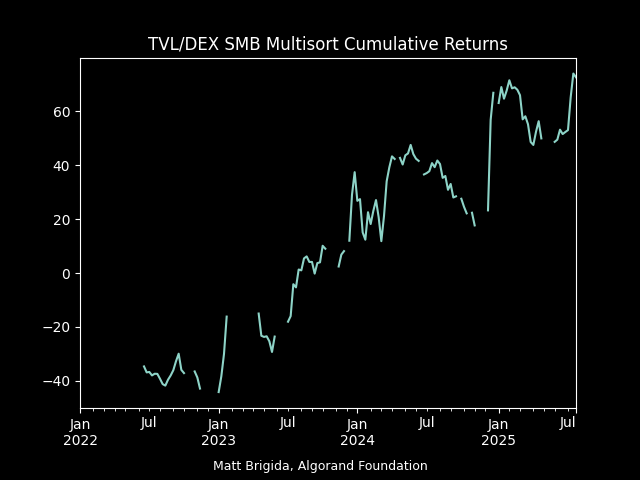
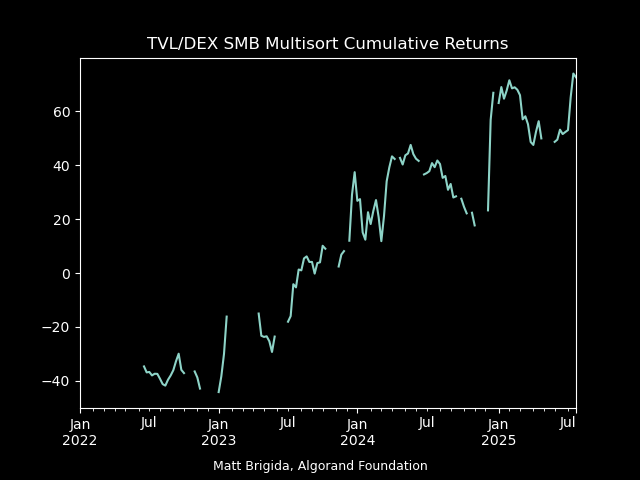
fixed narrative

diff --git a/index.html b/index.html
@@ -3,7 +3,7 @@
 "http://www.w3.org/TR/xhtml1/DTD/xhtml1-strict.dtd">
 <html xmlns="http://www.w3.org/1999/xhtml" lang="en" xml:lang="en">
 <head>
-<!-- 2026-01-19 Mon 17:48 -->
+<!-- 2026-01-19 Mon 18:13 -->
 <meta http-equiv="Content-Type" content="text/html;charset=utf-8" />
 <meta name="viewport" content="width=device-width, initial-scale=1" />
 <title>Alpha Found: DEX Sort Controlling for TVL</title>
@@ -251,8 +251,8 @@ $(function() {    $('.note').before("<p class='admonition-title note'>Note</p>")
 <h2>Table of Contents</h2>
 <div id="text-table-of-contents" role="doc-toc">
 <ul>
-<li><a href="#orgb747fc0">1. TVL and DEX Volume Multisort Portfolios</a></li>
-<li><a href="#org116f32b">2. Joint Tests for Significant Alpha</a></li>
+<li><a href="#org57caa54">1. TVL and DEX Volume Multisort Portfolios</a></li>
+<li><a href="#org6df96c3">2. Tests for Significant Alpha</a></li>
 </ul>
 </div>
 </div>
@@ -271,79 +271,117 @@ There are a number of reasons to think a cryptocurrency's TVL will affect its re
 <p>
 In addition, TVL may also affect prices through traditional investment in value channels. Fama and French (2015)<sup><a id="fnr.2" class="footref" href="#fn.2" role="doc-backlink">2</a></sup> found firms which invest more aggressively tend to earn lower returns.  Since TVL to market cap may be viewed as an investment intensity factor, there may be a similar effect in crypto.  TVL to market cap may also be a value measure which signals future growth.  Liu, Tsyvinski, and Wu (2022)<sup><a id="fnr.3" class="footref" href="#fn.3" role="doc-backlink">3</a></sup> found evidence of a value effect in crypto using a price to new address ratio.
 </p>
-<div id="outline-container-orgb747fc0" class="outline-2">
-<h2 id="orgb747fc0"><span class="section-number-2">1.</span> TVL and DEX Volume Multisort Portfolios</h2>
+<div id="outline-container-org57caa54" class="outline-2">
+<h2 id="org57caa54"><span class="section-number-2">1.</span> TVL and DEX Volume Multisort Portfolios</h2>
 <div class="outline-text-2" id="text-1">
 <p>
 In my tests I follow the standard Fama–French 2×3 portfolio construction, adapted to crypto. Each period I rank all eligible tokens on two characteristics measured in the prior period: total value locked (TVL) and DEX volume (scaled by market cap). First, I split tokens into Small TVL and Big TVL groups using the median TVL. Independently, I sort tokens into three DEX-activity groups — Low, Medium, and High devs — using the 30th and 70th percentiles of the DEX measure. Taking the intersection of these two independent sorts gives six portfolios: Small–Low (SL), Small–Medium (SM), Small–High (SH), Big–Low (BL), Big–Medium (BM), and Big–High (BH). I then track the value-weighted returns of these six portfolios over the next period. This 2×3 design lets me see how returns vary jointly with TVL and DEX activity, and then build long–short factors (e.g., high-minus-low DEX controlling for TVL) to test whether these characteristics earn a risk premium.
 </p>
 </div>
-<div id="outline-container-org7bf8236" class="outline-3">
-<h3 id="org7bf8236"><span class="section-number-3">1.1.</span> Data</h3>
+<div id="outline-container-org0fb90f2" class="outline-3">
+<h3 id="org0fb90f2"><span class="section-number-3">1.1.</span> Data</h3>
 <div class="outline-text-3" id="text-1-1">
 <p>
 Our data is sampled at the weekly frequency, and ranges from 1/3/2022 to 7/28/2025.  We include all coins that were in the top 100 over any part of the sample period, though we exclude Bitcoin and all stablecoins.  Returns are quoted in percentage points.
 </p>
 </div>
 </div>
-<div id="outline-container-org2ebfaf1" class="outline-3">
-<h3 id="org2ebfaf1"><span class="section-number-3">1.2.</span> TVL (size) factor: Small minus Big (SMB)</h3>
+<div id="outline-container-org945e6ee" class="outline-3">
+<h3 id="org945e6ee"><span class="section-number-3">1.2.</span> TVL (size) factor: Small minus Big TVL (\(SMB_{TVL}\))</h3>
 <div class="outline-text-3" id="text-1-2">
 <p>
-The long-short SMB portfolio measures whether TVL is a rewarded risk controlling for DEX volume to market cap.
+The long-short \(SMB_{TVL}\) portfolio measures whether TVL is a rewarded risk controlling for DEX volume to market cap.
 </p>
 
 <p>
-\[\text{SMB}_t = \frac{1}{3}\bigl(R_{SL,t} + R_{SM,t} + R_{SH,t}\bigr) - \frac{1}{3}\bigl(R_{BL,t} + R_{BM,t} + R_{BH,t}\bigr)\]
+\[\text{SMB}_{{TVL}_t} = \frac{1}{3}\bigl(R_{SL,t} + R_{SM,t} + R_{SH,t}\bigr) - \frac{1}{3}\bigl(R_{BL,t} + R_{BM,t} + R_{BH,t}\bigr)\]
 </p>
 
 <p>
 Descriptive statistics.  
 </p>
 
+<pre class="example">
+            0
+count  130.00
+mean     0.56
+std      6.33
+min    -21.84
+25%     -2.45
+50%      0.23
+75%      3.79
+max     33.61
+</pre>
+
+
 <p>
-The portfolio as a weekly mean return of == %, and given the T-test below, the mean return is not significantly different from 0.
+The portfolio as a weekly mean return of <code>0.56</code> %, and given the T-test below, the mean return is not significantly different from 0.
 </p>
 
+<pre class="example">
+TtestResult(statistic=array([1.00698739]), pvalue=array([0.31582595]), df=array([129]))
+</pre>
 
-<div id="org1fcb662" class="figure">
+
+
+
+
+<div id="org20457c4" class="figure">
 <p><img src="./multi_SMB.png" alt="multi_SMB.png" />
 </p>
 </div>
 </div>
 </div>
-<div id="outline-container-org19daf62" class="outline-3">
-<h3 id="org19daf62"><span class="section-number-3">1.3.</span> Devs factor: High devs minus Low devs (HML), neutral to TVL</h3>
+<div id="outline-container-org8629dfb" class="outline-3">
+<h3 id="org8629dfb"><span class="section-number-3">1.3.</span> DEX factor: High DEX Volume minus Low DEX Volume (\(HML_DEX\)), neutral to TVL</h3>
 <div class="outline-text-3" id="text-1-3">
 <p>
 This long-short portfolio is long tokens with more DEX volume (per market cap) and short tokens low DEX volume, while controlling for TVL.
 </p>
 
 <p>
-\[\text{DEX}_t = \frac{1}{2}\bigl(R_{SH,t} + R_{BH,t}\bigr) - \frac{1}{2}\bigl(R_{SL,t} + R_{BL,t}\bigr)\]
+\[\text{DEX}_{{DEX}_t} = \frac{1}{2}\bigl(R_{SH,t} + R_{BH,t}\bigr) - \frac{1}{2}\bigl(R_{SL,t} + R_{BL,t}\bigr)\]
 </p>
 
 <p>
 Descriptive statistics.  Data is weekly, and in percentage points.
 </p>
 
+<pre class="example">
+            0
+count  130.00
+mean     1.85
+std      9.67
+min    -31.74
+25%     -2.86
+50%      0.14
+75%      6.54
+max     53.01
+</pre>
+
+
 <p>
-The portfolio as a weekly mean return of == %, and given the T-test below, the mean return is significantly different from 0.
+The portfolio as a weekly mean return of <code>1.85</code> %, and given the T-test below, the mean return is significantly different from 0.
 </p>
 
+<pre class="example">
+TtestResult(statistic=array([2.17655566]), pvalue=array([0.03133462]), df=array([129]))
+</pre>
 
-<div id="org79aa09a" class="figure">
+
+
+<div id="org7929b9a" class="figure">
 <p><img src="./multi_HML.png" alt="multi_HML.png" />
 </p>
 </div>
 </div>
 </div>
 </div>
-<div id="outline-container-org116f32b" class="outline-2">
-<h2 id="org116f32b"><span class="section-number-2">2.</span> Joint Tests for Significant Alpha</h2>
+<div id="outline-container-org6df96c3" class="outline-2">
+<h2 id="org6df96c3"><span class="section-number-2">2.</span> Tests for Significant Alpha</h2>
 <div class="outline-text-2" id="text-2">
 <p>
-To test whether my TVL–DEX portfolios earn any abnormal returns (alpha), I use a standard linear factor model and Hansen’s J-statistic<sup><a id="fnr.4" class="footref" href="#fn.4" role="doc-backlink">4</a></sup> for a joint alpha test.
+To test whether my TVL–DEX portfolios earn any abnormal returns (alpha), I use a t-test on the intercept of a standard linear factor model and Hansen’s J-statistic<sup><a id="fnr.4" class="footref" href="#fn.4" role="doc-backlink">4</a></sup> for a joint alpha test.
 </p>
 
 <p>
@@ -372,45 +410,131 @@ and
 </p>
 
 <p>
-and then test whether \(\alpha_1\) and \(\alpha_2\) are jointly equal to 0 via Hansen's J-Statistic.
+and then test whether \(\alpha_1\) and \(\alpha_2\) are individually and jointly equal to 0 via t-tests and Hansen's J-Statistic.
 </p>
 </div>
-<div id="outline-container-orgceee5e2" class="outline-3">
-<h3 id="orgceee5e2"><span class="section-number-3">2.1.</span> Results</h3>
+<div id="outline-container-org89183b6" class="outline-3">
+<h3 id="org89183b6"><span class="section-number-3">2.1.</span> Results</h3>
 <div class="outline-text-3" id="text-2-1">
 </div>
-<div id="outline-container-org35c6b2f" class="outline-4">
-<h4 id="org35c6b2f"><span class="section-number-4">2.1.1.</span> Single Portfolio Tests</h4>
+<div id="outline-container-orgc77ab97" class="outline-4">
+<h4 id="orgc77ab97"><span class="section-number-4">2.1.1.</span> Single Portfolio Tests</h4>
 <div class="outline-text-4" id="text-2-1-1">
 </div>
 <ol class="org-ol">
-<li><a id="org30b9bd7"></a>SMB Portfolio<br />
+<li><a id="orgb524d3d"></a>SMB Portfolio<br />
 <div class="outline-text-5" id="text-2-1-1-1">
+<pre class="example" id="org12ee0bb">
+                            OLS Regression Results                            
+==============================================================================
+Dep. Variable:              multi_SMB   R-squared:                       0.013
+Model:                            OLS   Adj. R-squared:                 -0.003
+Method:                 Least Squares   F-statistic:                    0.8373
+Date:                Mon, 19 Jan 2026   Prob (F-statistic):              0.435
+Time:                        18:13:13   Log-Likelihood:                -422.93
+No. Observations:                 130   AIC:                             851.9
+Df Residuals:                     127   BIC:                             860.5
+Df Model:                           2                                         
+Covariance Type:            nonrobust                                         
+========================================================================================
+                           coef    std err          t      P&gt;|t|      [0.025      0.975]
+----------------------------------------------------------------------------------------
+Intercept                1.2985      0.807      1.609      0.110      -0.298       2.896
+excess_crypto_market     9.8127      7.678      1.278      0.204      -5.381      25.006
+single_smb_factor       -0.0049      0.040     -0.122      0.903      -0.084       0.074
+==============================================================================
+Omnibus:                       38.279   Durbin-Watson:                   1.738
+Prob(Omnibus):                  0.000   Jarque-Bera (JB):              200.994
+Skew:                           0.841   Prob(JB):                     2.26e-44
+Kurtosis:                       8.855   Cond. No.                         193.
+==============================================================================
+
+Notes:
+[1] Standard Errors assume that the covariance matrix of the errors is correctly specified.
+</pre>
 </div>
 </li>
-<li><a id="orgb00c529"></a>HML Portfolio<br />
+<li><a id="org6c396b6"></a>HML Portfolio<br />
 <div class="outline-text-5" id="text-2-1-1-2">
 <p>
 Regressing HML portfolio returns on our two factors yields an weekly alpha of 2.15%, which is significant at the 10% level.
 </p>
+
+<pre class="example" id="orgd9724b1">
+                            OLS Regression Results                            
+==============================================================================
+Dep. Variable:              multi_HML   R-squared:                       0.016
+Model:                            OLS   Adj. R-squared:                  0.001
+Method:                 Least Squares   F-statistic:                     1.062
+Date:                Mon, 19 Jan 2026   Prob (F-statistic):              0.349
+Time:                        18:13:13   Log-Likelihood:                -477.84
+No. Observations:                 130   AIC:                             961.7
+Df Residuals:                     127   BIC:                             970.3
+Df Model:                           2                                         
+Covariance Type:            nonrobust                                         
+========================================================================================
+                           coef    std err          t      P&gt;|t|      [0.025      0.975]
+----------------------------------------------------------------------------------------
+Intercept                2.1522      1.231      1.748      0.083      -0.284       4.589
+excess_crypto_market     4.9902     11.714      0.426      0.671     -18.189      28.170
+single_smb_factor       -0.0831      0.061     -1.364      0.175      -0.204       0.038
+==============================================================================
+Omnibus:                       48.487   Durbin-Watson:                   1.755
+Prob(Omnibus):                  0.000   Jarque-Bera (JB):              338.992
+Skew:                           1.035   Prob(JB):                     2.45e-74
+Kurtosis:                      10.635   Cond. No.                         193.
+==============================================================================
+
+Notes:
+[1] Standard Errors assume that the covariance matrix of the errors is correctly specified.
+</pre>
 </div>
 </li>
 </ol>
 </div>
-<div id="outline-container-org99e300f" class="outline-4">
-<h4 id="org99e300f"><span class="section-number-4">2.1.2.</span> Joint Test</h4>
+<div id="outline-container-org5d4378d" class="outline-4">
+<h4 id="org5d4378d"><span class="section-number-4">2.1.2.</span> Joint Test</h4>
 <div class="outline-text-4" id="text-2-1-2">
+<pre class="example" id="org5297a15">
+                      TradedFactorModel Estimation Summary                      
+================================================================================
+No. Test Portfolios:                  2   R-squared:                      0.0154
+No. Factors:                          2   J-statistic:                    1.6169
+No. Observations:                   130   P-value                         0.4456
+Date:                  Mon, Jan 19 2026   Distribution:                  chi2(2)
+Time:                          18:13:13                                         
+Cov. Estimator:                  kernel                                         
+                                                                                
+                                 Risk Premia Estimates                                  
+========================================================================================
+                      Parameter  Std. Err.     T-stat    P-value    Lower CI    Upper CI
+----------------------------------------------------------------------------------------
+excess_crypto_market    -0.0758     0.0071    -10.754     0.0000     -0.0896     -0.0620
+single_smb_factor       -0.8643     1.2586    -0.6867     0.4923     -3.3312      1.6026
+========================================================================================
+
+Covariance estimator:
+KernelCovariance, Kernel: bartlett, Bandwidth: 4.0
+See full_summary for complete results
+</pre>
+
 <p>
-See the results above, estimated via the <code>Traded Factor Model</code> method from the <code>LinearModels</code> python package.  The J-Statistic (<code>=) is a test of whether the alpha coefficients are jointly equal to 0 (the null hypothesis). We do not reject the null with the statistics p-value of {{{results(=</code>)}}}.  
+See the results above, estimated via the <code>Traded Factor Model</code> method from the <code>LinearModels</code> python package.  The J-Statistic (<code>1.62</code>) is a test of whether the alpha coefficients are jointly equal to 0 (the null hypothesis). We do not reject the null with the statistics p-value of <code>0.45</code>.  
 </p>
 </div>
 </div>
-<div id="outline-container-orgbaf8dfe" class="outline-4">
-<h4 id="orgbaf8dfe"><span class="section-number-4">2.1.3.</span> Annualized Alpha Coefficients</h4>
+<div id="outline-container-org26d176f" class="outline-4">
+<h4 id="org26d176f"><span class="section-number-4">2.1.3.</span> Annualized Alpha Coefficients</h4>
 <div class="outline-text-4" id="text-2-1-3">
 <p>
-The SMB and HML portfolios generate an alpha of <code>= %, and {{{results(=</code>)}}} %, respectively.
+The SMB and HML portfolios generate an alpha of <code>67.60000000000001</code> %, and <code>111.8</code> %, respectively.
 </p>
+
+<pre class="example">
+multi_SMB     67.52
+multi_HML    111.92
+Name: alpha, dtype: float64
+</pre>
 </div>
 </div>
 </div>
@@ -440,7 +564,7 @@ Hansen, Lars Peter (1982), "Large Sample Properties of Generalized Method of Mom
 </div></div>
 <div id="postamble" class="status">
 <p class="author">Author: Matt Brigida</p>
-<p class="date">Created: 2026-01-19 Mon 17:48</p>
+<p class="date">Created: 2026-01-19 Mon 18:13</p>
 <p class="validation"><a href="https://validator.w3.org/check?uri=referer">Validate</a></p>
 </div>
 </body>
